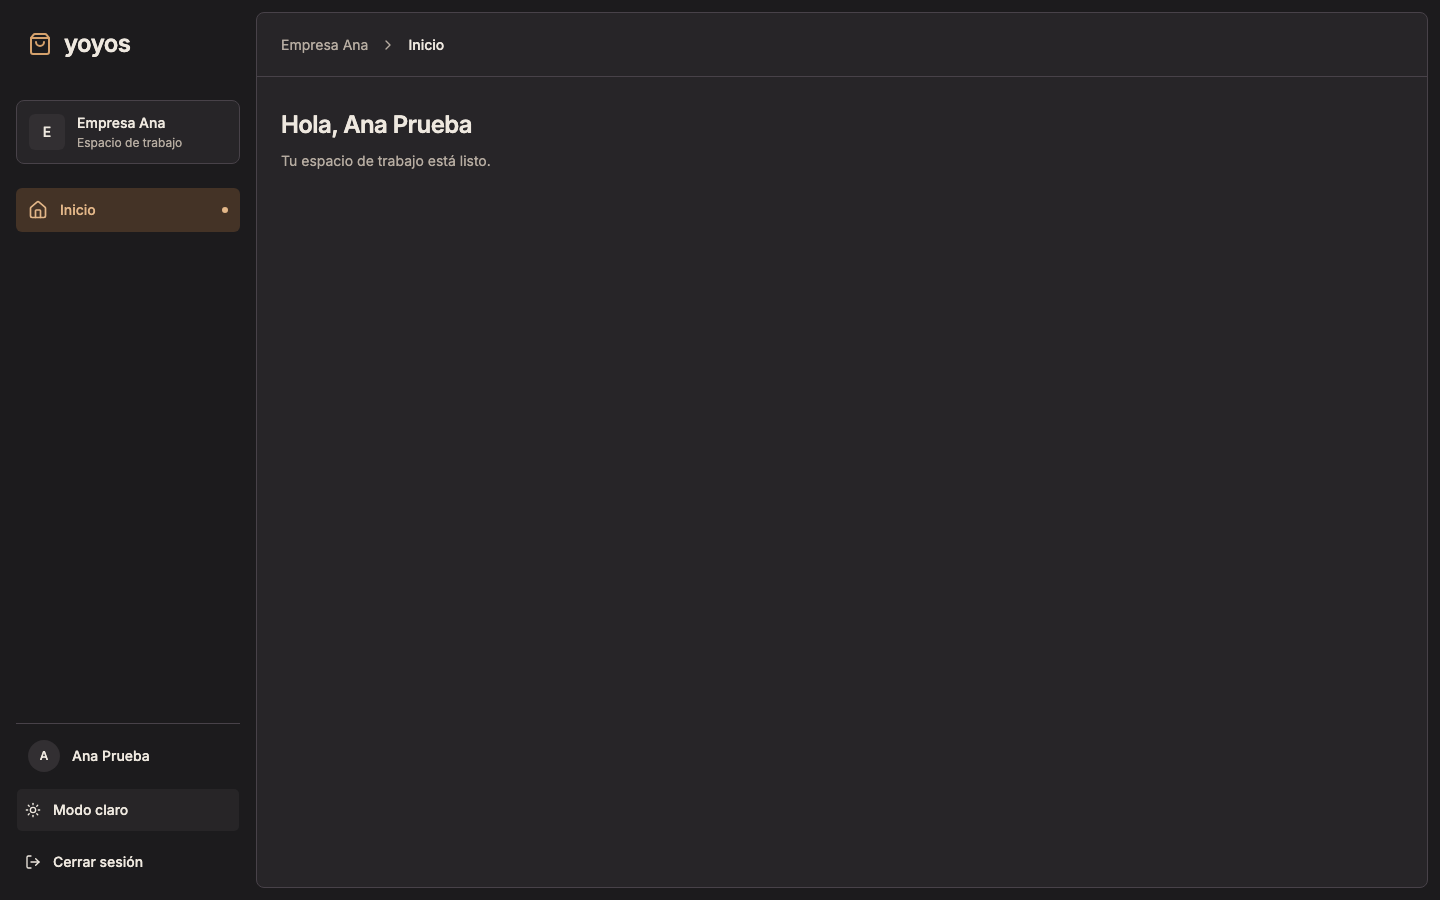
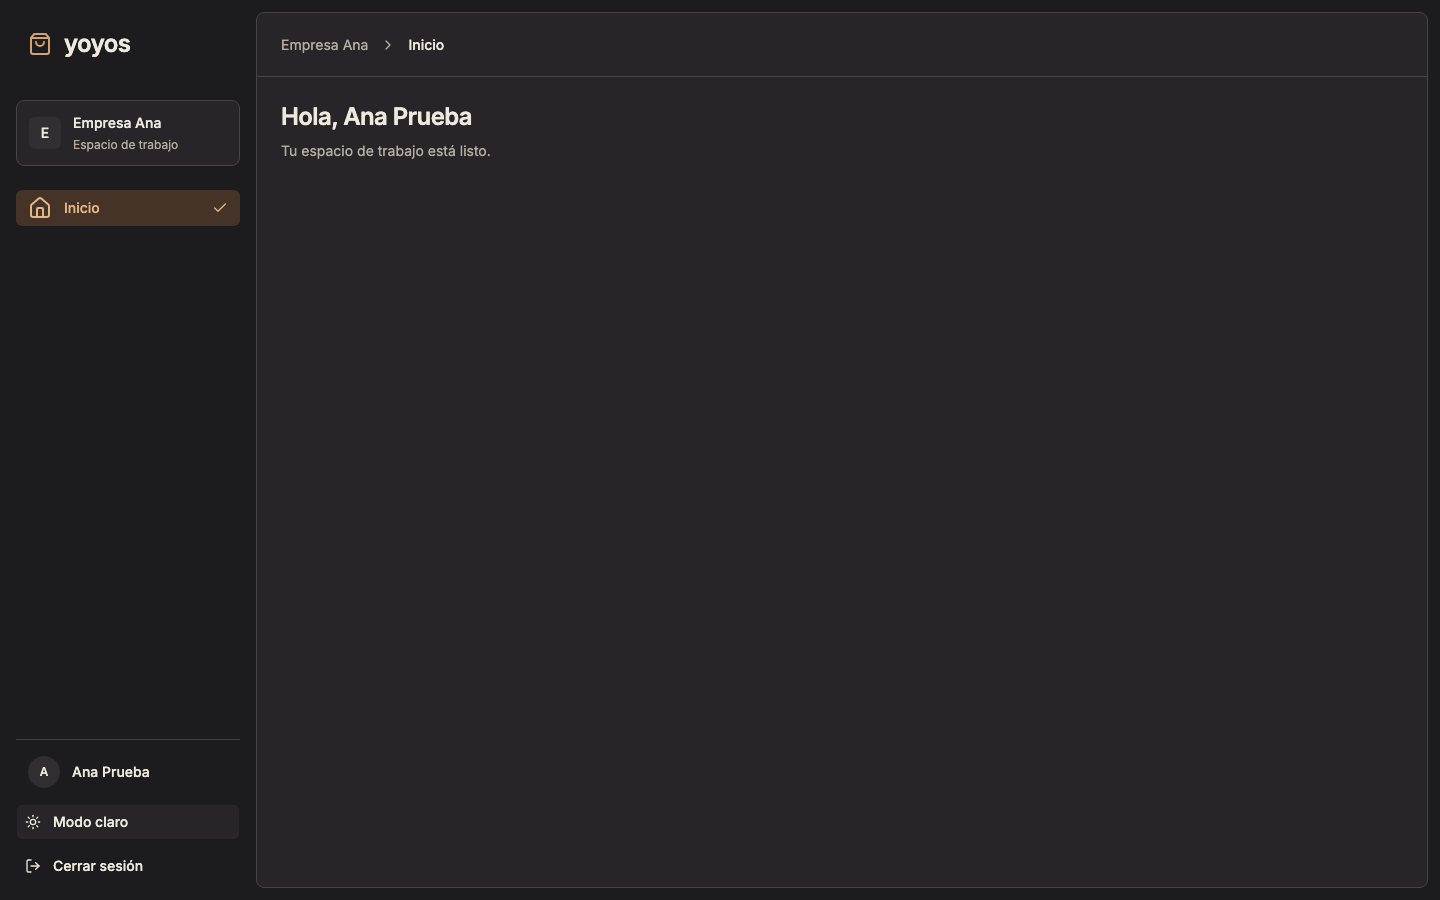
Align application shell dimensions with shared design tokens

diff --git a/apps/core/app/routes/private-layout.tsx b/apps/core/app/routes/private-layout.tsx
@@ -1,5 +1,5 @@
 import { useEffect, useRef, useState } from "react";
-import { ChevronRight, House, LogOut, Menu, Moon, ShoppingBag, Sun, X } from "lucide-react";
+import { Check, ChevronRight, House, LogOut, Menu, Moon, ShoppingBag, Sun, X } from "lucide-react";
 import { Link, Outlet, createContext, redirect, useLoaderData, useNavigate, type LoaderFunctionArgs, type MiddlewareFunction } from "react-router";
 import { Button } from "@/components/ui/button";
 import { privateUserContext } from "@/private-user-context";
@@ -46,21 +46,21 @@ function Navigation({ company, name, home, dark, pending, error, onTheme, onSign
   onNavigate?: () => void;
 }) {
   return (
-    <div className="flex min-h-full flex-col gap-6 bg-background px-4 pb-4 pt-3">
-      <Link to={home} onClick={onNavigate} className="flex min-h-16 items-center gap-3 px-3 text-2xl font-semibold tracking-tight focus-visible:rounded-sm focus-visible:outline-2 focus-visible:outline-ring">
-        <ShoppingBag className="size-6 text-primary" aria-hidden="true" />yoyos
+    <div className="flex min-h-full flex-col gap-section bg-background px-4 pb-4 pt-3">
+      <Link to={home} onClick={onNavigate} className="flex min-h-app-header items-center gap-3 px-3 text-2xl font-semibold tracking-tight focus-visible:rounded-sm focus-visible:outline-2 focus-visible:outline-ring">
+        <ShoppingBag className="size-icon-navigation text-primary" aria-hidden="true" />yoyos
       </Link>
       <div className="flex min-w-0 items-center gap-3 rounded-md border border-border bg-card px-3 py-3 text-card-foreground">
-        <span className="grid size-9 shrink-0 place-items-center rounded-sm bg-secondary text-sm font-medium text-secondary-foreground" aria-hidden="true">{company.slice(0, 1).toUpperCase()}</span>
+        <span className="grid size-8 shrink-0 place-items-center rounded-sm bg-secondary text-sm font-medium text-secondary-foreground" aria-hidden="true">{company.slice(0, 1).toUpperCase()}</span>
         <div className="min-w-0">
           <p className="break-words text-sm font-medium leading-5">{company}</p>
-          <p className="mt-0.5 text-xs text-muted-foreground">Espacio de trabajo</p>
+          <p className="mt-1 text-xs text-muted-foreground">Espacio de trabajo</p>
         </div>
       </div>
       <nav aria-label="Navegación principal">
-        <Link to={home} onClick={onNavigate} aria-current="page" className="flex min-h-11 items-center gap-3 rounded-sm bg-accent px-3 text-sm font-medium text-accent-foreground outline-none focus-visible:ring-2 focus-visible:ring-ring focus-visible:ring-offset-2 focus-visible:ring-offset-background max-md:min-h-12">
-          <House className="size-5 shrink-0" aria-hidden="true" />Inicio
-          <span className="ml-auto size-1.5 rounded-full bg-current" aria-hidden="true" />
+        <Link to={home} onClick={onNavigate} data-slot="navigation-link" aria-current="page" className="flex min-h-control items-center gap-3 rounded-sm bg-accent px-3 text-sm font-medium text-accent-foreground outline-none focus-visible:ring-2 focus-visible:ring-ring focus-visible:ring-offset-2 focus-visible:ring-offset-background max-md:min-h-touch">
+          <House className="size-icon-navigation shrink-0" aria-hidden="true" />Inicio
+          <Check className="ml-auto size-icon-inline" aria-hidden="true" />
         </Link>
       </nav>
       <div className="mt-auto flex flex-col gap-2 border-t border-border pt-4">
@@ -68,11 +68,11 @@ function Navigation({ company, name, home, dark, pending, error, onTheme, onSign
           <span className="grid size-8 shrink-0 place-items-center rounded-full bg-secondary text-xs font-medium text-secondary-foreground" aria-hidden="true">{name.slice(0, 1).toUpperCase()}</span>
           <span className="min-w-0 break-words text-sm font-medium leading-5">{name}</span>
         </div>
-        <Button type="button" variant="ghost" className="min-h-11 w-full justify-start gap-3" onClick={onTheme} aria-label="Alternar tema" aria-pressed={dark}>
+        <Button type="button" variant="ghost" className="min-h-control w-full justify-start gap-3" onClick={onTheme} aria-label="Alternar tema" aria-pressed={dark}>
           {dark ? <Sun data-icon="inline-start" aria-hidden="true" /> : <Moon data-icon="inline-start" aria-hidden="true" />}
           {dark ? "Modo claro" : "Modo oscuro"}
         </Button>
-        <Button type="button" variant="ghost" className="min-h-11 w-full justify-start gap-3" onClick={onSignOut} disabled={pending}>
+        <Button type="button" variant="ghost" className="min-h-control w-full justify-start gap-3" onClick={onSignOut} disabled={pending}>
           <LogOut data-icon="inline-start" aria-hidden="true" />{pending ? "Cerrando sesión…" : "Cerrar sesión"}
         </Button>
         {error && <p role="alert" className="px-2 text-sm text-destructive">{error}</p>}
@@ -128,29 +128,29 @@ export default function PrivateLayout() {
   return (
     <div className="flex min-h-dvh flex-col md:flex-row">
       <a href="#main-content" className="sr-only focus:not-sr-only focus:fixed focus:left-4 focus:top-4 focus:z-50 focus:rounded-sm focus:bg-primary focus:px-4 focus:py-3 focus:text-primary-foreground">Saltar al contenido</a>
-      <aside className="hidden md:sticky md:top-0 md:block md:h-dvh md:w-64 md:shrink-0 md:overflow-y-auto">
+      <aside className="hidden md:sticky md:top-0 md:block md:h-dvh md:w-sidebar md:shrink-0 md:overflow-y-auto">
         <Navigation {...navigation} />
       </aside>
-      <dialog ref={dialog} aria-label="Menú principal" className="m-0 h-dvh max-h-dvh w-72 max-w-full border-0 bg-background p-0 text-foreground shadow-xl backdrop:bg-foreground/40 md:hidden">
+      <dialog ref={dialog} aria-label="Menú principal" className="m-0 h-dvh max-h-dvh w-navigation-drawer max-w-full border-0 bg-background p-0 text-foreground shadow-xl backdrop:bg-foreground/40 md:hidden">
         <div className="flex h-full flex-col">
-          <Button type="button" variant="ghost" size="icon" aria-label="Cerrar menú" className="absolute right-3 top-5 min-h-12 min-w-12" onClick={() => dialog.current?.close()}><X aria-hidden="true" /></Button>
+          <Button type="button" variant="ghost" size="icon" aria-label="Cerrar menú" className="absolute right-3 top-4 min-h-touch min-w-touch" onClick={() => dialog.current?.close()}><X aria-hidden="true" /></Button>
           <Navigation {...navigation} onNavigate={() => dialog.current?.close()} />
         </div>
       </dialog>
       <div className="min-w-0 flex-1 bg-card text-card-foreground md:my-3 md:mr-3 md:rounded-md md:border md:border-border">
-        <header className="flex min-h-16 items-center gap-3 border-b border-border px-4 py-2 text-sm sm:px-6">
-          <Button type="button" variant="ghost" size="icon" aria-label="Abrir menú" aria-haspopup="dialog" className="min-h-12 min-w-12 md:hidden" onClick={() => dialog.current?.showModal()}><Menu aria-hidden="true" /></Button>
+        <header className="flex min-h-app-header items-center gap-3 border-b border-border px-page-mobile py-2 text-sm sm:px-page-desktop">
+          <Button type="button" variant="ghost" size="icon" aria-label="Abrir menú" aria-haspopup="dialog" className="min-h-touch min-w-touch md:hidden" onClick={() => dialog.current?.showModal()}><Menu aria-hidden="true" /></Button>
           <nav aria-label="Ruta de navegación" className="min-w-0">
             <ol className="flex min-w-0 items-center gap-3">
               <li className="min-w-0 truncate text-muted-foreground" title={company}>{company}</li>
               <li className="flex shrink-0 items-center gap-3" aria-current="page">
-                <ChevronRight className="size-4 text-muted-foreground" aria-hidden="true" />
+                <ChevronRight className="size-icon-inline text-muted-foreground" aria-hidden="true" />
                 <span className="font-medium">Inicio</span>
               </li>
             </ol>
           </nav>
         </header>
-        <main id="main-content" tabIndex={-1} className="mx-auto max-w-content px-4 py-8 outline-none sm:px-6"><Outlet /></main>
+        <main id="main-content" tabIndex={-1} className="mx-auto max-w-content px-page-mobile py-section outline-none sm:px-page-desktop"><Outlet /></main>
       </div>
     </div>
   );

diff --git a/apps/core/tests/e2e/auth.spec.ts b/apps/core/tests/e2e/auth.spec.ts
@@ -1,3 +1,4 @@
+import designTokens from "../../../../docs/design-tokens.json";
 import { browserExpect, expect, test } from "./fixtures";
 import { prisma, systemPrisma, withTenantIsolation } from "../../src/shared/infrastructure/persistance";
 
@@ -36,6 +37,9 @@ test("register, persist session, sign out, reject bad password, and sign in", as
     await browserExpect(page.getByRole("main")).toBeFocused();
     await page.setViewportSize({ width: 1440, height: 900 });
     const sidebar = page.getByRole("complementary");
+    await browserExpect(sidebar).toHaveCSS("width", `${designTokens.layout.sidebarWidth}px`);
+    await browserExpect(page.getByRole("banner")).toHaveCSS("min-height", `${designTokens.layout.appHeaderMinHeight}px`);
+    await browserExpect(sidebar.getByRole("button", { name: "Alternar tema" })).toHaveCSS("min-height", `${designTokens.sizing.controlDesktopMinHeight}px`);
     await browserExpect(sidebar).toContainText("Empresa Ana");
     await browserExpect(sidebar).toContainText("Ana Prueba");
     await browserExpect(sidebar.getByRole("link", { name: "Inicio" })).toHaveAttribute("href", "/es-PE/dashboard");
@@ -62,6 +66,8 @@ test("register, persist session, sign out, reject bad password, and sign in", as
     await page.keyboard.press("Enter");
     const menu = page.getByRole("dialog", { name: "Menú principal" });
     await browserExpect(menu).toBeVisible();
+    await browserExpect(menu).toHaveCSS("width", `${designTokens.layout.navigationDrawerWidth}px`);
+    await browserExpect(menu.getByRole("button", { name: "Alternar tema" })).toHaveCSS("min-height", `${designTokens.sizing.touchTargetMinSize}px`);
     await browserExpect(menu.getByRole("link", { name: "Inicio" })).toHaveAttribute("href", "/es-PE/dashboard");
     await browserExpect(menu.getByRole("button", { name: "Cerrar menú" })).toBeFocused();
     await page.keyboard.press("Tab");

diff --git a/apps/core/app/app.css b/apps/core/app/app.css
@@ -6,6 +6,17 @@
 @custom-variant dark (&:is(.dark *));
 
 @theme inline {
+  --spacing: var(--space-unit);
+  --spacing-sidebar: var(--sidebar-width);
+  --spacing-navigation-drawer: var(--navigation-drawer-width);
+  --spacing-app-header: var(--app-header-min-height);
+  --spacing-page-mobile: var(--page-gutter-mobile);
+  --spacing-page-desktop: var(--page-gutter-desktop);
+  --spacing-section: var(--section-gap);
+  --spacing-control: var(--control-min-height);
+  --spacing-touch: var(--touch-target-min-size);
+  --spacing-icon-inline: var(--icon-inline-size);
+  --spacing-icon-navigation: var(--icon-navigation-size);
   --font-sans: "Inter Variable", sans-serif;
   --color-background: var(--background);
   --color-foreground: var(--foreground);
@@ -38,7 +49,10 @@
   html.dark { color-scheme: dark; }
   body { @apply min-h-screen bg-background text-foreground; }
   button:not(:disabled) { cursor: pointer; }
-  @media (pointer: coarse) {
-    [data-slot="button"] { min-height: 48px; }
-  }
+}
+
+/* Touch targets take precedence over compact component size utilities. */
+@media (pointer: coarse), (width < 48rem) {
+  [data-slot="button"], [data-slot="navigation-link"] { min-height: var(--touch-target-min-size); }
+  [data-slot="button"][data-size^="icon"] { min-width: var(--touch-target-min-size); }
 }

diff --git a/apps/core/app/design-theme.ts b/apps/core/app/design-theme.ts
@@ -1,0 +1,25 @@
+import tokens from "../../../docs/design-tokens.json";
+
+const cssVariables = (values: Record<string, string>) =>
+  Object.entries(values).map(([name, value]) => `--${name}:${value};`).join("");
+const rem = (value: number) => `${value / 16}rem`;
+
+// One adapter for the application and its component previews.
+export const themeCss = `:root{${cssVariables({
+  ...tokens.colors.light,
+  "radius-control": rem(tokens.radius.control),
+  "radius-card": rem(tokens.radius.card),
+  "radius-overlay": rem(tokens.radius.overlay),
+  "content-max-width": rem(tokens.layout.contentMaxWidth),
+  "space-unit": rem(tokens.spacing[1]),
+  "sidebar-width": rem(tokens.layout.sidebarWidth),
+  "navigation-drawer-width": rem(tokens.layout.navigationDrawerWidth),
+  "app-header-min-height": rem(tokens.layout.appHeaderMinHeight),
+  "page-gutter-mobile": rem(tokens.layout.pageGutterMobile),
+  "page-gutter-desktop": rem(tokens.layout.pageGutterDesktop),
+  "section-gap": rem(tokens.layout.sectionGap),
+  "control-min-height": rem(tokens.sizing.controlDesktopMinHeight),
+  "touch-target-min-size": rem(tokens.sizing.touchTargetMinSize),
+  "icon-inline-size": rem(tokens.sizing.iconInline),
+  "icon-navigation-size": rem(tokens.sizing.iconNavigation),
+})}}.dark{${cssVariables(tokens.colors.dark)}}`;

diff --git a/apps/core/app/root.tsx b/apps/core/app/root.tsx
@@ -6,14 +6,9 @@ import {
   ScrollRestoration,
   useLocation,
 } from "react-router";
-import designTokens from "../../../docs/design-tokens.json";
+import { themeCss } from "@/design-theme";
 import "./app.css";
 import { isLocale } from "@/locale";
-
-const cssVariables = (colors: Record<string, string>) =>
-  Object.entries(colors).map(([name, value]) => `--${name}:${value};`).join("");
-
-const themeCss = `:root{${cssVariables(designTokens.colors.light)}--radius-control:${designTokens.radius.control}px;--radius-card:${designTokens.radius.card}px;--radius-overlay:${designTokens.radius.overlay}px;--content-max-width:${designTokens.layout.contentMaxWidth}px}.dark{${cssVariables(designTokens.colors.dark)}}`;
 
 const themeScript = `const preference = localStorage.getItem('yoyos-theme');
 document.documentElement.classList.toggle('dark', preference === 'dark' || (!preference && matchMedia('(prefers-color-scheme: dark)').matches));`;

diff --git a/apps/core/.storybook/preview.tsx b/apps/core/.storybook/preview.tsx
@@ -1,11 +1,6 @@
 import type { Preview } from "@storybook/react-vite";
-import designTokens from "../../../docs/design-tokens.json";
+import { themeCss } from "@/design-theme";
 import "../app/app.css";
-
-const cssVariables = (colors: Record<string, string>) =>
-  Object.entries(colors).map(([name, value]) => `--${name}:${value};`).join("");
-
-const themeCss = `:root{${cssVariables(designTokens.colors.light)}--radius-control:${designTokens.radius.control}px;--radius-card:${designTokens.radius.card}px;--radius-overlay:${designTokens.radius.overlay}px}.dark{${cssVariables(designTokens.colors.dark)}}`;
 
 const preview: Preview = {
   globalTypes: {

diff --git a/apps/core/app/routes/dashboard.tsx b/apps/core/app/routes/dashboard.tsx
@@ -9,9 +9,9 @@ export default function Dashboard() {
   const { name } = useLoaderData<typeof loader>();
 
   return (
-    <div className="max-w-prose">
+    <div>
       <h1 className="break-words text-2xl font-semibold tracking-tight text-balance">Hola, {name}</h1>
-      <p className="mt-2 text-sm leading-6 text-muted-foreground">Tu espacio de trabajo está listo.</p>
+      <p className="mt-2 text-sm leading-5 text-muted-foreground">Tu espacio de trabajo está listo.</p>
     </div>
   );
 }

diff --git a/DESIGN.md b/DESIGN.md
@@ -92,6 +92,13 @@ The `spacing` scale is shared. Geometry values represent CSS pixels on the web a
 | Data row | Minimum height 40 | Minimum 56 when it contains text and actions. |
 | Container | Maximum 1440, centered | One column by default. |
 | Form | Maximum 640 | Available width. |
+| Web sidebar | Width 256 | Replaced by modal navigation. |
+| Web navigation drawer | — | Width 288, capped at the viewport. |
+| Web app header | Minimum height 64 | Minimum height 64. |
+
+The web shell consumes `sidebarWidth`, `navigationDrawerWidth`, and `appHeaderMinHeight` as semantic tokens because these dimensions recur across authenticated pages. They describe web navigation only, not native navigation. App and Storybook share the same token adapter. Dimensions use rem so they scale with the user's root text size.
+
+Before using a dimension, check its role against the tokens. A Tailwind scale value is not automatically an approved design-system value. Reuse an existing role or spacing step; add a token only when a distinct, reusable role needs a missing dimension, and document it here in the same change. Desktop controls use the existing 36 minimum; touch controls use 48. Do not introduce an intermediate 44 height for one screen. Use the existing 32 spacing step for the shell's initials rather than adding an avatar size just for this layout.
 
 These values summarize `layout` and `sizing`; the JSON takes precedence when updated. Heights are minimums, never rigid values that clip content. Apply touch sizing on touch-enabled web interfaces too, even on large screens. Separate adjacent touch targets by at least 8 units and avoid overlapping invisible hit areas.
 
